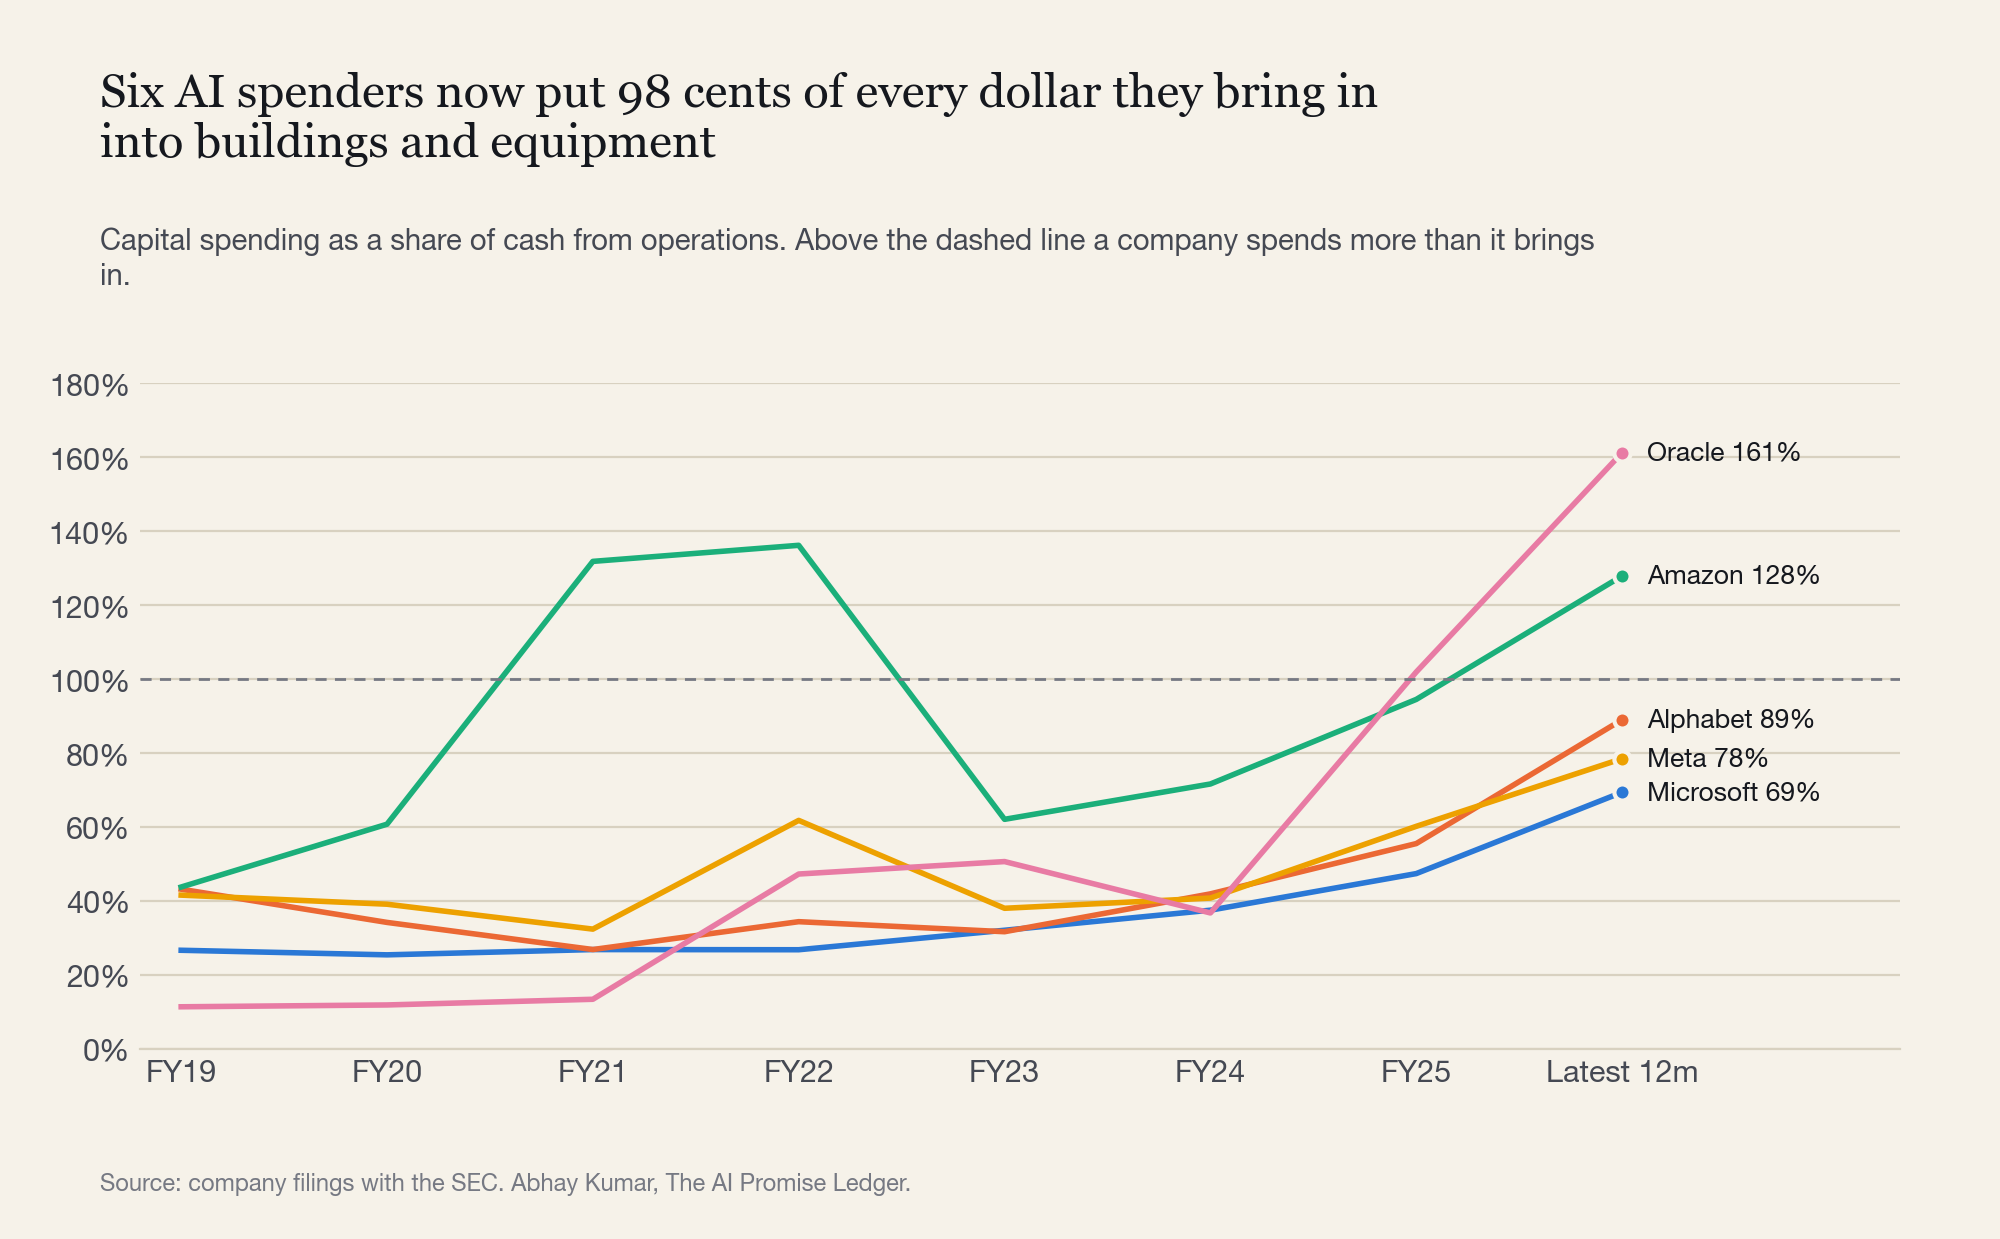
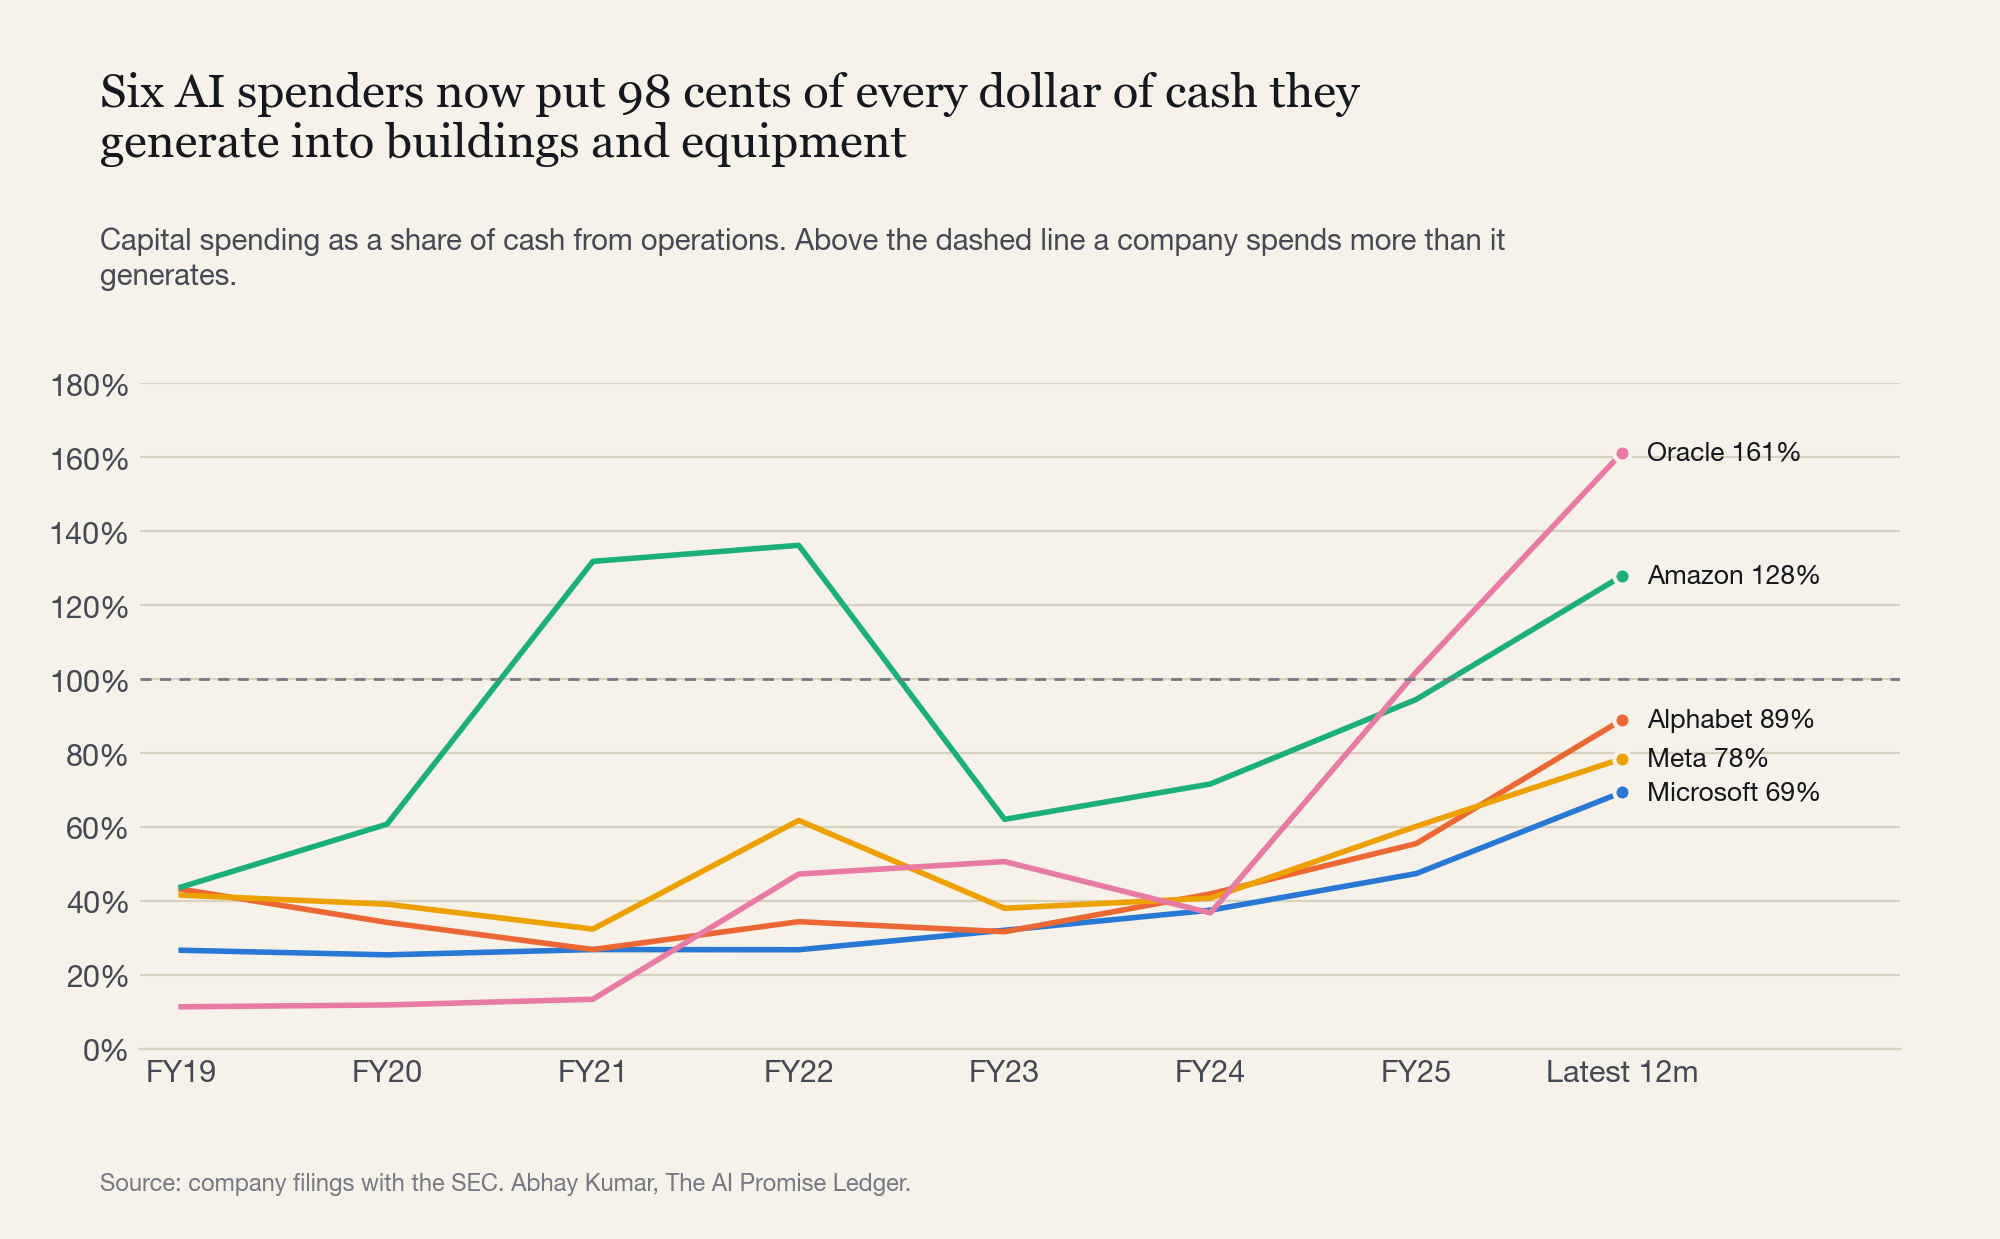
Match the cash chart's title to the wording on the site

diff --git a/src/make_charts.py b/src/make_charts.py
@@ -50,8 +50,8 @@ def cash_gap(a: dict) -> None:
     labels = ["FY2019", "FY2020", "FY2021", "FY2022", "FY2023", "FY2024", "FY2025", "Latest 12m"]
     su = a["sources_uses"]
     share = sum(r["capex"] for r in su) / sum(r["cfo"] for r in su)
-    fig, ax = _frame(f"Six AI spenders now put {share * 100:.0f} cents of every dollar they bring in into buildings and equipment",
-                     "Capital spending as a share of cash from operations. Above the dashed line a company spends more than it brings in.")
+    fig, ax = _frame(f"Six AI spenders now put {share * 100:.0f} cents of every dollar of cash they generate into buildings and equipment",
+                     "Capital spending as a share of cash from operations. Above the dashed line a company spends more than it generates.")
     for t in TICKERS:
         if t == "CRWV":
             continue  # off the scale
